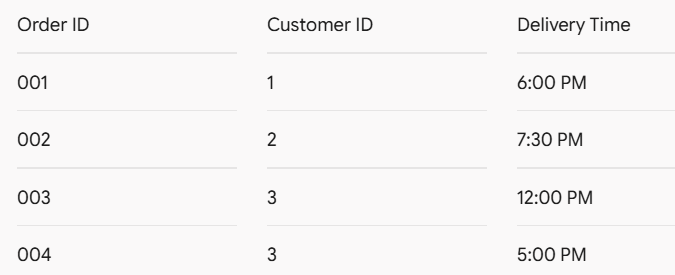
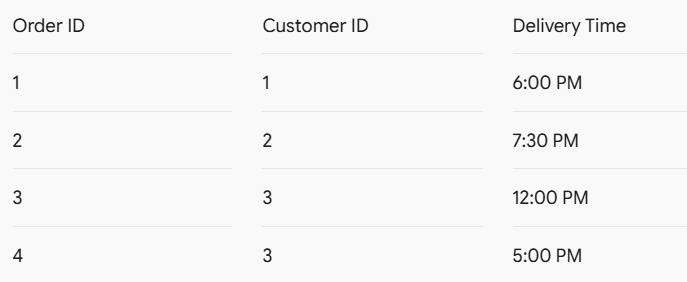
SQL Normalization Final commit

diff --git a/SQL/Normalization/Normalization_Exercises/Normalization_Exercises.md b/SQL/Normalization/Normalization_Exercises/Normalization_Exercises.md
@@ -19,10 +19,11 @@ con ese Order ID) entonces, se escoge el de Order ID 001 con Item ID 101 por eje
 idenficado por la columna Item ID. Otro caso es con el customer name, phone y address que no dependen de la primary key sino más bien del cliente que haya hecho la orden.
 Por lo tanto se debe eliminar todo lo relacionado con los items y crear una tabla propia llamada Items.
 Así mismo eliminar todo lo relacionado al customer y crear una tabla propia llamada Customers.
+Así mismo eliminar todo lo relacionado al customer y crear una tabla propia llamada Customers.
 
 ### Tabla items
 
-![Ejercicio Orders: Items Table](https://github.com/JoseSolanoCordoba/DUAD/blob/8826303853cd753048193b904e7941aa3e296caa/SQL/Normalization/Normalization_Exercises/assets/ItemsTable.png)
+![Ejercicio Orders: Items Table](https://github.com/JoseSolanoCordoba/DUAD/blob/91817119f2a1df170567cfab8e2816144f9100ea/SQL/Normalization/Normalization_Exercises/assets/ItemsTable.png)
 
 En el caso de los customers se nota que hay algunos que tienen más de un address, por lo tanto otra vez se está repitiendo datos del mismo tipo en dichas filas incumpliendo la 1FN nuevamente, hay que eliminar esa 
 redundancia separando el address de los customer en otra tabla.
@@ -115,7 +116,7 @@ Se observa que un carro puede estar asegurado por más de una compañía de segu
 
 Finalmente se tiene la tabla Cars nueva:
 
-###Tabla Cars nueva
+### Tabla Cars nueva
 ![Ejercicio Cars: Cars Table](https://github.com/JoseSolanoCordoba/DUAD/blob/18f631dd0e6221b9196af27bc072d7001d252847/SQL/Normalization/Normalization_Exercises/assets/CarsTable.png)
 
 Esta tabla tiene solamente información única, referenciando el brand_id previamente mencionado y el resto de características únicas. Mientras que los owners y las compañías de seguro,
